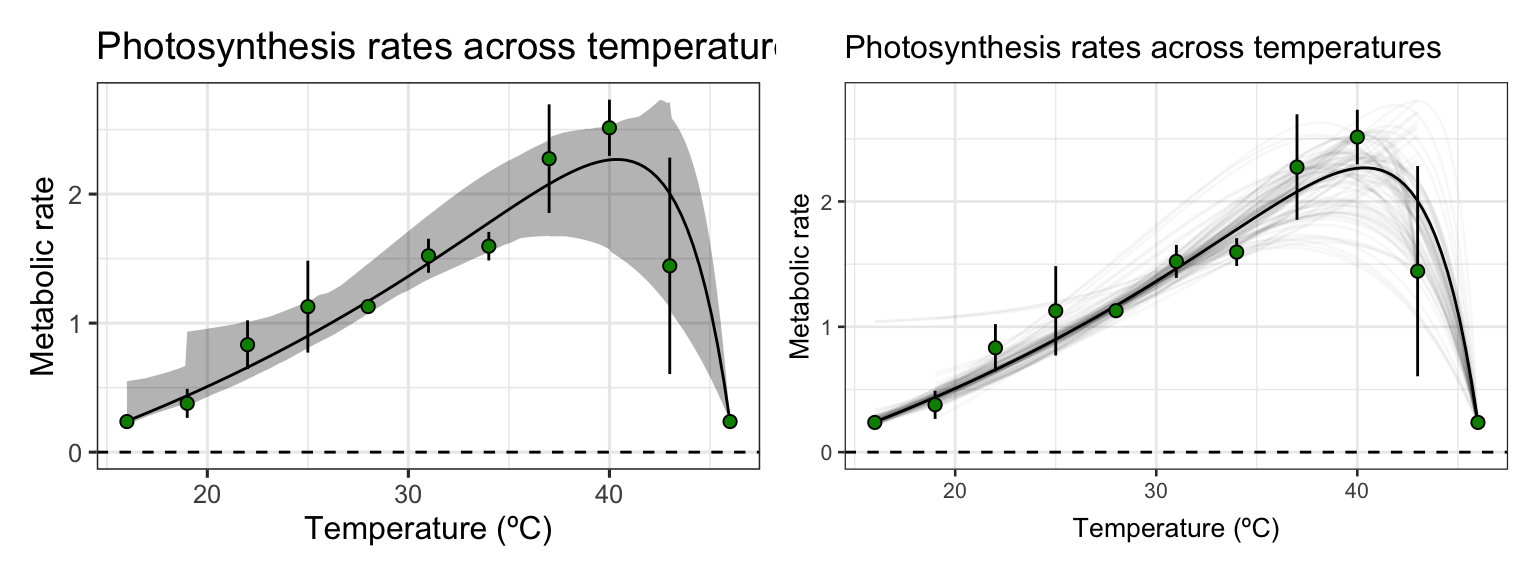
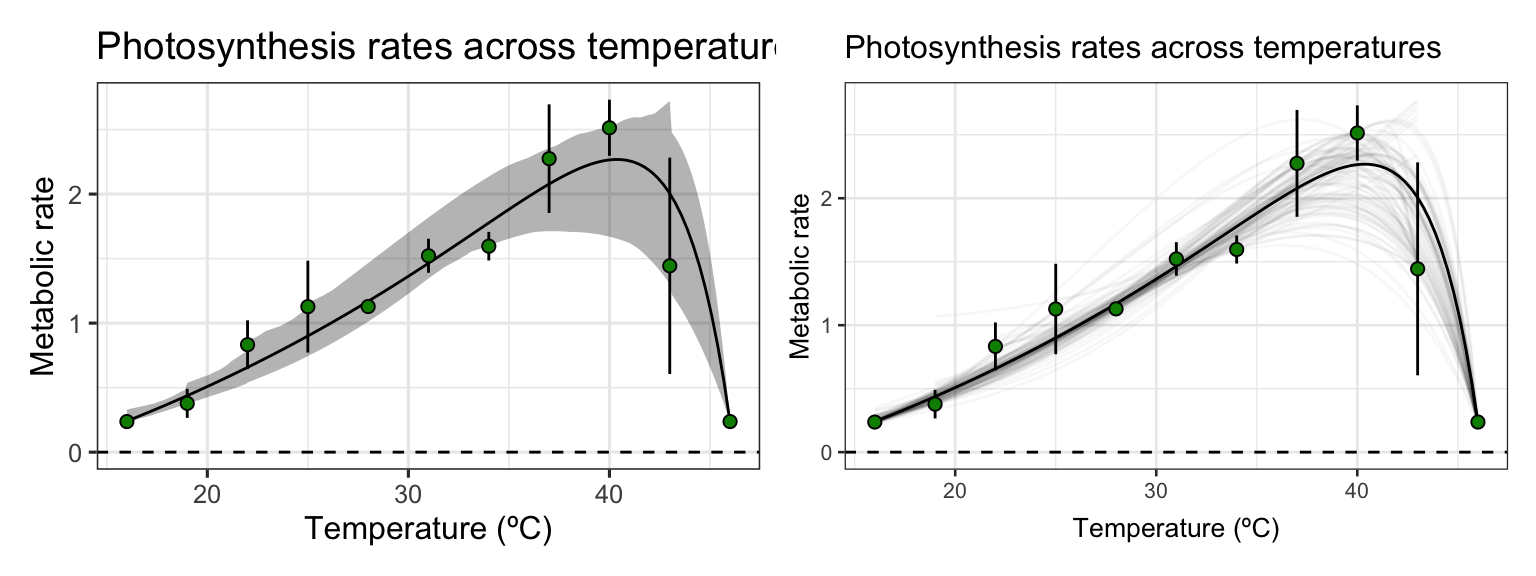
update vignette

diff --git a/docs/articles/weighted_bootstrapping.html b/docs/articles/weighted_bootstrapping.html
@@ -117,7 +117,7 @@
       <h1 data-toc-skip>Bootstrapping with weights using rTPC</h1>
                         <h4 class="author">Daniel Padfield</h4>
             
-            <h4 class="date">2020-07-26</h4>
+            <h4 class="date">2020-07-27</h4>
       
       <small class="dont-index">Source: <a href="https://github.com/padpadpadpad/rTPC/blob/master/vignettes/weighted_bootstrapping.Rmd"><code>vignettes/weighted_bootstrapping.Rmd</code></a></small>
       <div class="hidden name"><code>weighted_bootstrapping.Rmd</code></div>
@@ -247,14 +247,14 @@
 <span class="co">#&gt;       &lt;int&gt; &lt;chr&gt;          &lt;dbl&gt;    &lt;dbl&gt;  &lt;dbl&gt;</span>
 <span class="co">#&gt;  1        1 photosynthesis    16    0.237 0.0448</span>
 <span class="co">#&gt;  2        1 photosynthesis    16    0.237 0.0448</span>
-<span class="co">#&gt;  3        1 photosynthesis    22    0.833 0.189 </span>
-<span class="co">#&gt;  4        1 photosynthesis    28    1.13  0.0507</span>
-<span class="co">#&gt;  5        1 photosynthesis    28    1.13  0.0507</span>
-<span class="co">#&gt;  6        1 photosynthesis    31    1.52  0.132 </span>
-<span class="co">#&gt;  7        1 photosynthesis    31    1.52  0.132 </span>
-<span class="co">#&gt;  8        1 photosynthesis    37    2.27  0.421 </span>
-<span class="co">#&gt;  9        1 photosynthesis    40    2.51  0.218 </span>
-<span class="co">#&gt; 10        1 photosynthesis    40    2.51  0.218 </span>
+<span class="co">#&gt;  3        1 photosynthesis    16    0.237 0.0448</span>
+<span class="co">#&gt;  4        1 photosynthesis    19    0.378 0.112 </span>
+<span class="co">#&gt;  5        1 photosynthesis    22    0.833 0.189 </span>
+<span class="co">#&gt;  6        1 photosynthesis    28    1.13  0.0507</span>
+<span class="co">#&gt;  7        1 photosynthesis    40    2.51  0.218 </span>
+<span class="co">#&gt;  8        1 photosynthesis    46    0.237 0.0448</span>
+<span class="co">#&gt;  9        1 photosynthesis    46    0.237 0.0448</span>
+<span class="co">#&gt; 10        1 photosynthesis    46    0.237 0.0448</span>
 <span class="co">#&gt; # … with 1,090 more rows</span></pre></body></html></div>
 <p>We will now implement weighted regression on each bootstrap.</p>
 <div class="sourceCode" id="cb4"><html><body><pre class="r"><span class="co"># start progress bar and estimate time it will take</span>
@@ -422,6 +422,103 @@
 
 <span class="no">p1</span> + <span class="no">p2</span></pre></body></html></div>
 <p><img src="weighted_bootstrapping_files/figure-html/bootstrap2-1.png" width="768" style="display: block; margin: auto;"></p>
+<hr>
+</div>
+<div id="method-3-weighted-re-sampling-and-standard-non-linear-least-squares-regression" class="section level1">
+<h1 class="hasAnchor">
+<a href="#method-3-weighted-re-sampling-and-standard-non-linear-least-squares-regression" class="anchor"></a>Method 3: Weighted re-sampling and standard non-linear least squares regression</h1>
+<p>This method re-samples each data point with a probability proportional to its weight and use standard non-linear least regression on each bootstrapped dataset.</p>
+<div class="sourceCode" id="cb7"><html><body><pre class="r"><span class="co"># create new bootstraps</span>
+<span class="no">d_boots</span> <span class="kw">&lt;-</span> <span class="no">d_ave</span> <span class="kw">%&gt;%</span>
+  <span class="fu">mutate</span>(<span class="no">.</span>, <span class="kw">n</span> <span class="kw">=</span> <span class="fl">1</span>:<span class="fu">n</span>()) <span class="kw">%&gt;%</span>
+  <span class="co"># creates nboot replicates of the dataset</span>
+  <span class="fu">slice</span>(<span class="fu"><a href="https://rdrr.io/r/base/rep.html">rep</a></span>(<span class="fl">1</span>:<span class="fu">n</span>(), <span class="kw">times</span> <span class="kw">=</span> <span class="no">n_boots</span>)) <span class="kw">%&gt;%</span>
+  <span class="fu">mutate</span>(<span class="no">.</span>, <span class="kw">boot_num</span> <span class="kw">=</span> <span class="fu"><a href="https://rdrr.io/r/base/rep.html">rep</a></span>(<span class="fl">1</span>:<span class="no">n_boots</span>, <span class="kw">each</span> <span class="kw">=</span> <span class="fu">n</span>()/<span class="no">n_boots</span>)) <span class="kw">%&gt;%</span>
+  <span class="fu">arrange</span>(<span class="no">boot_num</span>, <span class="no">temp</span>) <span class="kw">%&gt;%</span>
+  <span class="fu">group_by</span>(<span class="no">boot_num</span>) <span class="kw">%&gt;%</span>
+  <span class="fu">mutate</span>(<span class="no">.</span>, <span class="kw">inv_sd</span> <span class="kw">=</span> <span class="fl">1</span>/<span class="no">sd</span>,
+         <span class="kw">prob</span> <span class="kw">=</span> <span class="no">inv_sd</span>/<span class="fu"><a href="https://rdrr.io/r/base/sum.html">sum</a></span>(<span class="no">inv_sd</span>)) <span class="kw">%&gt;%</span>
+  <span class="fu">unite</span>(<span class="no">.</span>, <span class="st">'resample'</span>, <span class="fu"><a href="https://rdrr.io/r/base/c.html">c</a></span>(<span class="no">ave_rate</span>, <span class="no">sd</span>, <span class="no">temp</span>), <span class="kw">sep</span> <span class="kw">=</span> <span class="st">'_'</span>) <span class="kw">%&gt;%</span>
+  <span class="fu">mutate</span>(<span class="no">.</span>, <span class="kw">resample</span> <span class="kw">=</span> <span class="fu"><a href="https://rdrr.io/r/base/sample.html">sample</a></span>(<span class="no">resample</span>, <span class="fu">n</span>(), <span class="kw">replace</span> <span class="kw">=</span> <span class="fl">TRUE</span>, <span class="kw">prob</span> <span class="kw">=</span> <span class="no">prob</span>)) <span class="kw">%&gt;%</span>
+  <span class="fu">separate</span>(<span class="no">.</span>, <span class="no">resample</span>, <span class="fu"><a href="https://rdrr.io/r/base/c.html">c</a></span>(<span class="st">'ave_rate'</span>, <span class="st">'sd'</span>, <span class="st">'temp'</span>), <span class="kw">sep</span> <span class="kw">=</span> <span class="st">'_'</span>) <span class="kw">%&gt;%</span>
+  <span class="fu">ungroup</span>() <span class="kw">%&gt;%</span>
+  <span class="fu">mutate</span>(<span class="fu">across</span>(<span class="fu"><a href="https://rdrr.io/r/base/c.html">c</a></span>(<span class="no">ave_rate</span>, <span class="no">sd</span>, <span class="no">temp</span>), <span class="no">as.numeric</span>)) <span class="kw">%&gt;%</span>
+  <span class="fu">arrange</span>(<span class="no">boot_num</span>, <span class="no">temp</span>) <span class="kw">%&gt;%</span>
+  <span class="fu">select</span>(<span class="no">.</span>, <span class="no">boot_num</span>, <span class="no">flux</span>, <span class="no">temp</span>, <span class="no">ave_rate</span>, <span class="no">sd</span>)
+
+<span class="co"># setup progress bar</span>
+<span class="no">pb</span> <span class="kw">&lt;-</span> <span class="kw pkg">progress</span><span class="kw ns">::</span><span class="no"><a href="https://rdrr.io/pkg/progress/man/progress_bar.html">progress_bar</a></span>$<span class="fu">new</span>(<span class="kw">total</span> <span class="kw">=</span> <span class="no">n_boots</span>*<span class="no">number_of_models</span>,
+                                 <span class="kw">clear</span> <span class="kw">=</span> <span class="fl">FALSE</span>,
+                                 <span class="kw">format</span> <span class="kw">=</span><span class="st">"[:bar] :percent :elapsedfull"</span>)
+
+<span class="co"># fit each model</span>
+<span class="no">d_boots</span> <span class="kw">&lt;-</span> <span class="fu">nest</span>(<span class="no">d_boots</span>, <span class="kw">strap</span> <span class="kw">=</span> <span class="fu"><a href="https://rdrr.io/r/base/c.html">c</a></span>(<span class="no">temp</span>, <span class="no">ave_rate</span>, <span class="no">sd</span>)) <span class="kw">%&gt;%</span>
+  <span class="fu">mutate</span>(<span class="no">.</span>, <span class="kw">refit</span> <span class="kw">=</span> <span class="fu">map</span>(<span class="no">strap</span>, ~<span class="fu">nls_multstart_safe</span>(<span class="no">ave_rate</span>~<span class="fu"><a href="../reference/lactin2_1995.html">lactin2_1995</a></span>(<span class="kw">temp</span> <span class="kw">=</span> <span class="no">temp</span>, <span class="no">a</span>, <span class="no">b</span>, <span class="no">tmax</span>, <span class="no">delta_t</span>),
+                        <span class="kw">data</span> <span class="kw">=</span> <span class="no">.x</span>,
+                        <span class="kw">iter</span> <span class="kw">=</span> <span class="fu"><a href="https://rdrr.io/r/base/c.html">c</a></span>(<span class="fl">3</span>,<span class="fl">3</span>,<span class="fl">3</span>,<span class="fl">3</span>),
+                        <span class="kw">start_lower</span> <span class="kw">=</span> <span class="fu"><a href="../reference/get_start_vals.html">get_start_vals</a></span>(<span class="no">.x</span>$<span class="no">temp</span>, <span class="no">.x</span>$<span class="no">ave_rate</span>, <span class="kw">model_name</span> <span class="kw">=</span> <span class="st">'lactin2_1995'</span>) - <span class="fl">10</span>,
+                        <span class="kw">start_upper</span> <span class="kw">=</span> <span class="fu"><a href="../reference/get_start_vals.html">get_start_vals</a></span>(<span class="no">.x</span>$<span class="no">temp</span>, <span class="no">.x</span>$<span class="no">ave_rate</span>, <span class="kw">model_name</span> <span class="kw">=</span> <span class="st">'lactin2_1995'</span>) + <span class="fl">10</span>,
+                        <span class="kw">lower</span> <span class="kw">=</span> <span class="fu"><a href="../reference/get_lower_lims.html">get_lower_lims</a></span>(<span class="no">.x</span>$<span class="no">temp</span>, <span class="no">.x</span>$<span class="no">ave_rate</span>, <span class="kw">model_name</span> <span class="kw">=</span> <span class="st">'lactin2_1995'</span>),
+                        <span class="kw">upper</span> <span class="kw">=</span> <span class="fu"><a href="../reference/get_upper_lims.html">get_upper_lims</a></span>(<span class="no">.x</span>$<span class="no">temp</span>, <span class="no">.x</span>$<span class="no">ave_rate</span>, <span class="kw">model_name</span> <span class="kw">=</span> <span class="st">'lactin2_1995'</span>),
+                        <span class="kw">supp_errors</span> <span class="kw">=</span> <span class="st">'Y'</span>,
+                        <span class="kw">convergence_count</span> <span class="kw">=</span> <span class="fl">FALSE</span>)))
+
+<span class="co"># remove fits that are NA</span>
+<span class="no">d_boots</span> <span class="kw">&lt;-</span> <span class="fu"><a href="https://rdrr.io/r/stats/filter.html">filter</a></span>(<span class="no">d_boots</span>, !<span class="fu"><a href="https://rdrr.io/r/base/NA.html">is.na</a></span>(<span class="no">refit</span>))
+<span class="fu"><a href="https://rdrr.io/r/base/nrow.html">nrow</a></span>(<span class="no">d_boots</span>)
+<span class="co">#&gt; [1] 100</span>
+
+<span class="co"># create new temperature data</span>
+<span class="no">d_boots</span> <span class="kw">&lt;-</span> <span class="fu">mutate</span>(<span class="no">d_boots</span>, <span class="kw">new_data</span> <span class="kw">=</span> <span class="fu">map</span>(<span class="no">strap</span>, ~<span class="fu">tibble</span>(<span class="kw">temp</span> <span class="kw">=</span> <span class="fu"><a href="https://rdrr.io/r/base/seq.html">seq</a></span>(<span class="fu"><a href="https://rdrr.io/r/base/Extremes.html">min</a></span>(<span class="no">.x</span>$<span class="no">temp</span>), <span class="fu"><a href="https://rdrr.io/r/base/Extremes.html">max</a></span>(<span class="no">.x</span>$<span class="no">temp</span>), <span class="kw">by</span> <span class="kw">=</span> <span class="fl">0.1</span>))),
+                  <span class="co"># predict over that data</span>
+                  <span class="kw">preds</span> <span class="kw">=</span>  <span class="fu">map2</span>(<span class="no">refit</span>, <span class="no">new_data</span>, ~<span class="fu"><a href="https://broom.tidymodels.org/reference/reexports.html">augment</a></span>(<span class="no">.x</span>, <span class="kw">newdata</span> <span class="kw">=</span> <span class="no">.y</span>)))
+
+<span class="co"># calculate bootstrapped confidence intervals</span>
+<span class="no">d_conf</span> <span class="kw">&lt;-</span> <span class="fu">select</span>(<span class="no">d_boots</span>, <span class="no">preds</span>) <span class="kw">%&gt;%</span>
+  <span class="fu">unnest</span>(<span class="no">preds</span>) <span class="kw">%&gt;%</span>
+  <span class="fu">mutate</span>(<span class="kw">temp</span> <span class="kw">=</span> <span class="fu"><a href="https://rdrr.io/r/base/Round.html">round</a></span>(<span class="no">temp</span>, <span class="fl">1</span>)) <span class="kw">%&gt;%</span>
+  <span class="fu">group_by</span>(<span class="no">temp</span>) <span class="kw">%&gt;%</span>
+  <span class="fu">summarise</span>(<span class="kw">conf_lower</span> <span class="kw">=</span> <span class="fu"><a href="https://rdrr.io/r/stats/quantile.html">quantile</a></span>(<span class="no">.fitted</span>, <span class="fl">0.025</span>),
+         <span class="kw">conf_upper</span> <span class="kw">=</span> <span class="fu"><a href="https://rdrr.io/r/stats/quantile.html">quantile</a></span>(<span class="no">.fitted</span>, <span class="fl">0.975</span>)) <span class="kw">%&gt;%</span>
+  <span class="fu">ungroup</span>()
+<span class="co">#&gt; `summarise()` ungrouping output (override with `.groups` argument)</span>
+
+<span class="co"># unnest all predictions</span>
+<span class="no">d_boot_preds</span> <span class="kw">&lt;-</span> <span class="fu">select</span>(<span class="no">d_boots</span>, <span class="no">boot_num</span>, <span class="no">preds</span>) <span class="kw">%&gt;%</span>
+  <span class="fu">unnest</span>(<span class="no">preds</span>)
+
+<span class="co"># plot bootstrapped CIs</span>
+<span class="no">p1</span> <span class="kw">&lt;-</span> <span class="fu">ggplot</span>() +
+  <span class="fu">geom_line</span>(<span class="fu">aes</span>(<span class="no">temp</span>, <span class="no">.fitted</span>), <span class="no">d_preds</span>, <span class="kw">col</span> <span class="kw">=</span> <span class="st">'black'</span>) +
+  <span class="fu">geom_ribbon</span>(<span class="fu">aes</span>(<span class="no">temp</span>, <span class="kw">ymin</span> <span class="kw">=</span> <span class="no">conf_lower</span>, <span class="kw">ymax</span> <span class="kw">=</span> <span class="no">conf_upper</span>), <span class="no">d_conf</span>, <span class="kw">fill</span> <span class="kw">=</span> <span class="st">'black'</span>, <span class="kw">alpha</span> <span class="kw">=</span> <span class="fl">0.3</span>) +
+  <span class="fu">geom_linerange</span>(<span class="fu">aes</span>(<span class="kw">x</span> <span class="kw">=</span> <span class="no">temp</span>, <span class="kw">ymin</span> <span class="kw">=</span> <span class="no">ave_rate</span> - <span class="no">sd</span>, <span class="kw">ymax</span> <span class="kw">=</span> <span class="no">ave_rate</span> + <span class="no">sd</span>), <span class="no">d_ave</span>) +
+  <span class="fu">geom_point</span>(<span class="fu">aes</span>(<span class="no">temp</span>, <span class="no">ave_rate</span>), <span class="no">d_ave</span>, <span class="kw">size</span> <span class="kw">=</span> <span class="fl">2</span>, <span class="kw">shape</span> <span class="kw">=</span> <span class="fl">21</span>, <span class="kw">fill</span> <span class="kw">=</span> <span class="st">'green4'</span>) +
+  <span class="fu">theme_bw</span>(<span class="kw">base_size</span> <span class="kw">=</span> <span class="fl">12</span>) +
+  <span class="fu">theme</span>(<span class="kw">legend.position</span> <span class="kw">=</span> <span class="st">'none'</span>,
+        <span class="kw">strip.text</span> <span class="kw">=</span> <span class="fu">element_text</span>(<span class="kw">hjust</span> <span class="kw">=</span> <span class="fl">0</span>),
+        <span class="kw">strip.background</span> <span class="kw">=</span> <span class="fu">element_blank</span>()) +
+  <span class="fu">labs</span>(<span class="kw">x</span> <span class="kw">=</span><span class="st">'Temperature (ºC)'</span>,
+       <span class="kw">y</span> <span class="kw">=</span> <span class="st">'Metabolic rate'</span>,
+       <span class="kw">title</span> <span class="kw">=</span> <span class="st">'Photosynthesis rates across temperatures'</span>) +
+  <span class="fu">geom_hline</span>(<span class="fu">aes</span>(<span class="kw">yintercept</span> <span class="kw">=</span> <span class="fl">0</span>), <span class="kw">linetype</span> <span class="kw">=</span> <span class="fl">2</span>)
+
+<span class="co"># plot bootstrapped predictions</span>
+<span class="no">p2</span> <span class="kw">&lt;-</span> <span class="fu">ggplot</span>() +
+  <span class="fu">geom_line</span>(<span class="fu">aes</span>(<span class="no">temp</span>, <span class="no">.fitted</span>), <span class="no">d_preds</span>, <span class="kw">col</span> <span class="kw">=</span> <span class="st">'black'</span>) +
+  <span class="fu">geom_line</span>(<span class="fu">aes</span>(<span class="no">temp</span>, <span class="no">.fitted</span>, <span class="kw">group</span> <span class="kw">=</span> <span class="no">boot_num</span>), <span class="no">d_boot_preds</span>, <span class="kw">col</span> <span class="kw">=</span> <span class="st">'black'</span>, <span class="kw">alpha</span> <span class="kw">=</span> <span class="fl">0.03</span>) +
+  <span class="fu">geom_linerange</span>(<span class="fu">aes</span>(<span class="kw">x</span> <span class="kw">=</span> <span class="no">temp</span>, <span class="kw">ymin</span> <span class="kw">=</span> <span class="no">ave_rate</span> - <span class="no">sd</span>, <span class="kw">ymax</span> <span class="kw">=</span> <span class="no">ave_rate</span> + <span class="no">sd</span>), <span class="no">d_ave</span>) +
+  <span class="fu">geom_point</span>(<span class="fu">aes</span>(<span class="no">temp</span>, <span class="no">ave_rate</span>), <span class="no">d_ave</span>, <span class="kw">size</span> <span class="kw">=</span> <span class="fl">2</span>, <span class="kw">shape</span> <span class="kw">=</span> <span class="fl">21</span>, <span class="kw">fill</span> <span class="kw">=</span> <span class="st">'green4'</span>) +
+  <span class="fu">theme_bw</span>(<span class="kw">base_size</span> <span class="kw">=</span> <span class="fl">10</span>) +
+  <span class="fu">theme</span>(<span class="kw">legend.position</span> <span class="kw">=</span> <span class="st">'none'</span>,
+        <span class="kw">strip.text</span> <span class="kw">=</span> <span class="fu">element_text</span>(<span class="kw">hjust</span> <span class="kw">=</span> <span class="fl">0</span>),
+        <span class="kw">strip.background</span> <span class="kw">=</span> <span class="fu">element_blank</span>()) +
+  <span class="fu">labs</span>(<span class="kw">x</span> <span class="kw">=</span><span class="st">'Temperature (ºC)'</span>,
+       <span class="kw">y</span> <span class="kw">=</span> <span class="st">'Metabolic rate'</span>,
+       <span class="kw">title</span> <span class="kw">=</span> <span class="st">'Photosynthesis rates across temperatures'</span>) +
+  <span class="fu">geom_hline</span>(<span class="fu">aes</span>(<span class="kw">yintercept</span> <span class="kw">=</span> <span class="fl">0</span>), <span class="kw">linetype</span> <span class="kw">=</span> <span class="fl">2</span>)
+
+<span class="no">p1</span> + <span class="no">p2</span></pre></body></html></div>
+<p><img src="weighted_bootstrapping_files/figure-html/bootstrap3-1.png" width="768" style="display: block; margin: auto;"></p>
 </div>
   </div>
 
